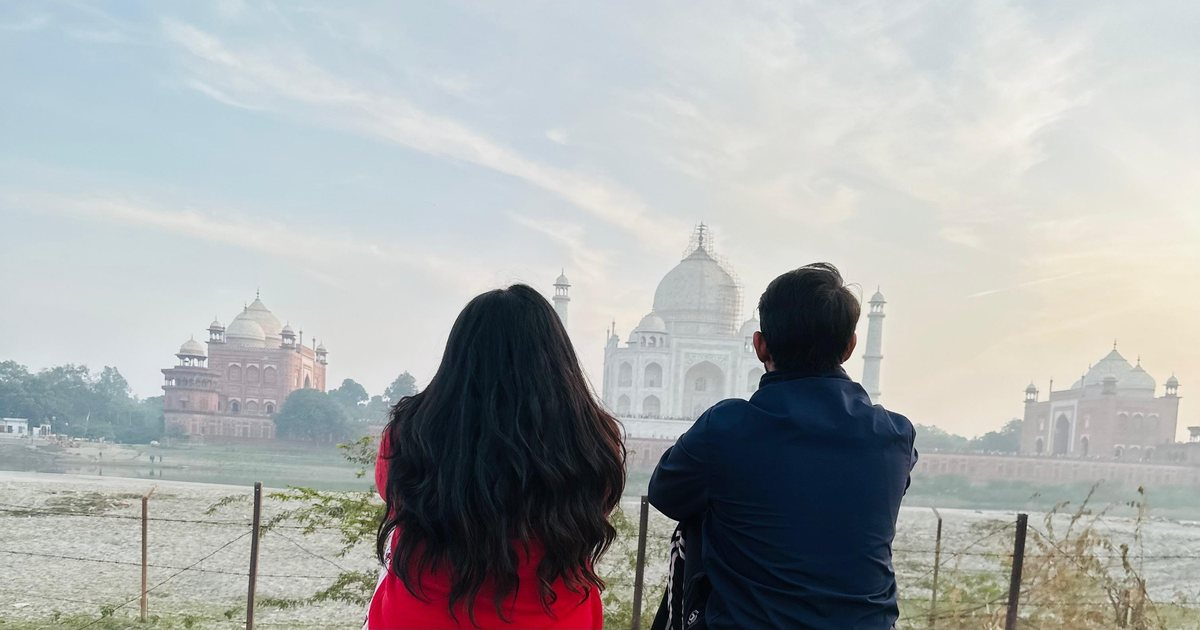
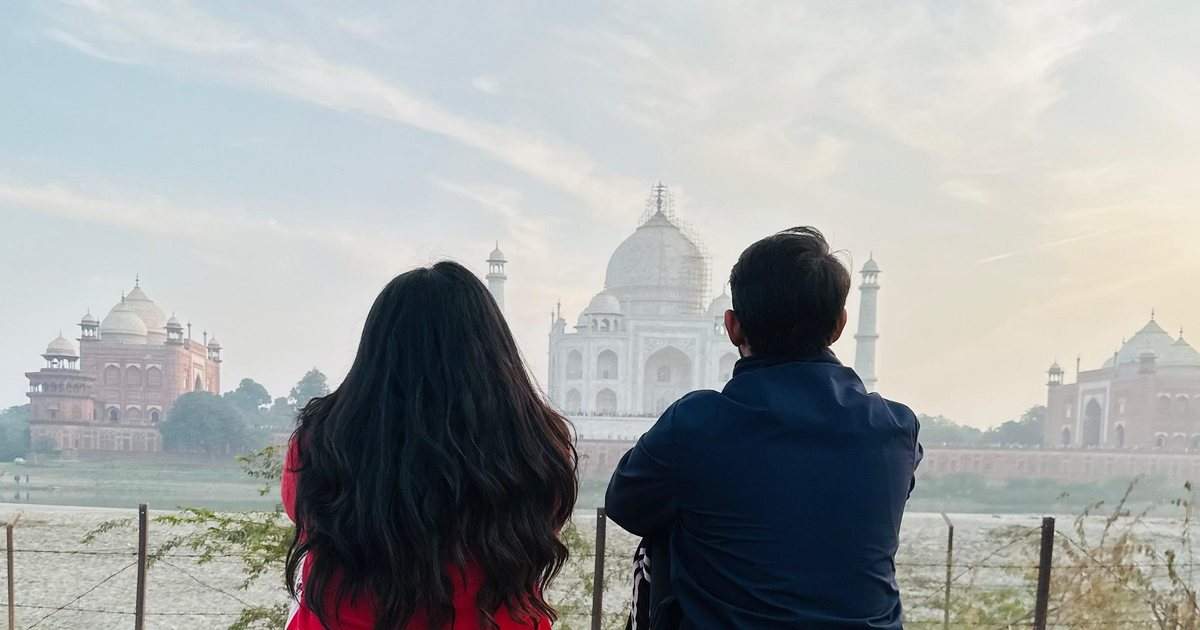
Straighten and re-centre the WhatsApp preview photo

diff --git a/index.html b/index.html
@@ -11,7 +11,7 @@
 <meta property="og:type" content="website">
 <meta property="og:title" id="og-title" content="Wedding Invitation">
 <meta property="og:description" id="og-desc" content="Wedding Invitation">
-<meta property="og:image" content="assets/images/preview.jpg?v=2">
+<meta property="og:image" content="assets/images/preview.jpg?v=3">
 <meta property="og:image:width" content="1200">
 <meta property="og:image:height" content="630">
 
